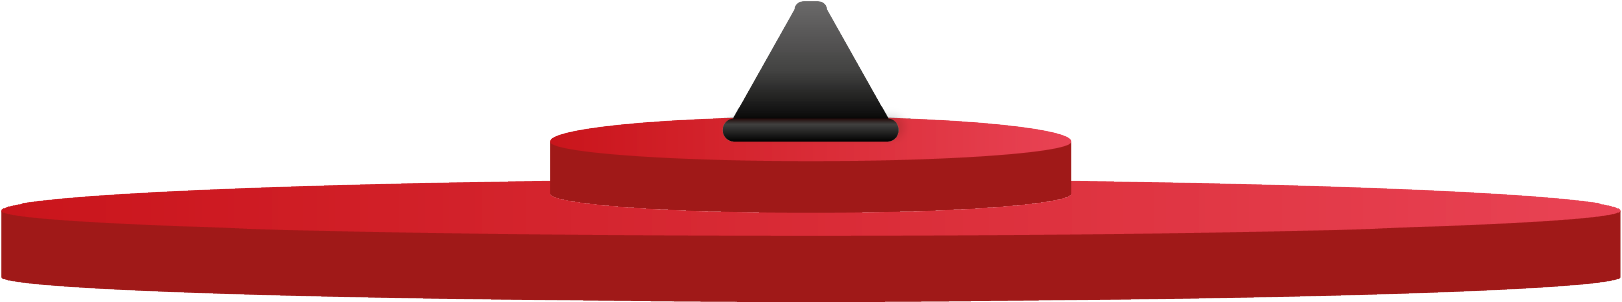
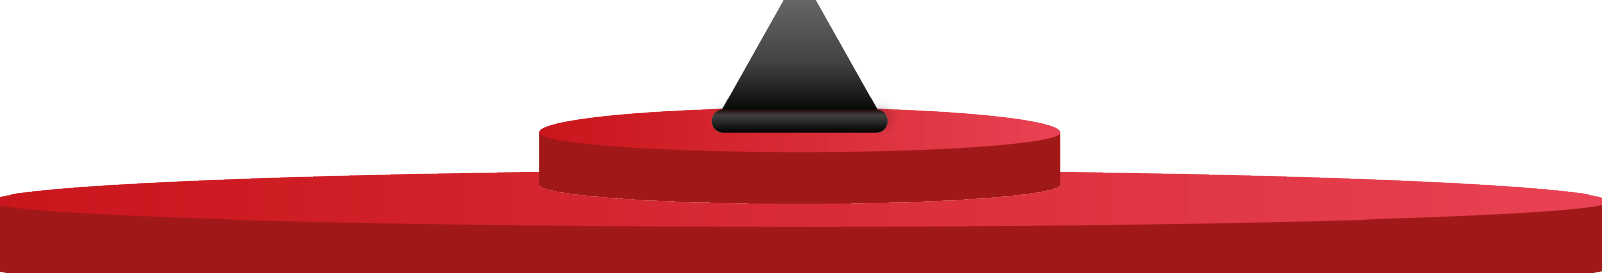
fix

diff --git a/src/index.css b/src/index.css
@@ -9,13 +9,15 @@ body,
 html {
   font-family: "Rb2.1b" !important;
   overflow: hidden;
-  height: 100%;
+  height: 100vh;
   /* background-image: url("./assets/bg.gif"); */
   background-position: center;
   background-repeat: no-repeat;
   background-size: cover;
   background-attachment: fixed;
   margin: 0;
+  padding: 0;
+  
 }
 
 p {
@@ -45,16 +47,17 @@ table {
 
 .wheelPodium {
   width: 100vw;
-  height: 30vw;
+  height: 25vw;
   position: absolute;
-  top: calc(100vh - 23vw);
-  background-position: center;
+  bottom: 0;
+  background-position: bottom;
   background-repeat: no-repeat;
   background-size: contain;
   background-image: url('./assets/Podium.png');
   z-index: -10;
   filter: "drop-shadow(-4px 12px 12px #00000040)";
-  scale:1
+  scale:1;
+  
 }
 
 @media only screen and (min-height: 100px) {
@@ -64,7 +67,7 @@ table {
   }
   .wheelContainer {
     scale: 0.65;
-    top: calc(100vh - 44vw) !important
+    top: calc(100vh - 45vw) !important
   }
   .wheelPodium {
     scale: 1;
@@ -79,7 +82,7 @@ table {
   }
   .wheelContainer {
     scale: 0.9;
-    top: calc(100vh - 50vw) !important
+    top: calc(100vh - 51vw) !important
   }
   .wheelPodium {
     scale: 0.9;
@@ -93,7 +96,7 @@ table {
   }
   .wheelContainer {
     scale: 1.2;
-    top: calc(100vh - 57vw) !important
+    top: calc(100vh - 58vw) !important
   }
   .wheelPodium {
     scale: 1;
@@ -109,7 +112,7 @@ table {
   }
   .wheelContainer {
     scale: 1;
-    top: calc(100vh - 52vw) !important
+    top: calc(100vh - 53vw) !important
   }
   .wheelPodium {
     scale: 1;
